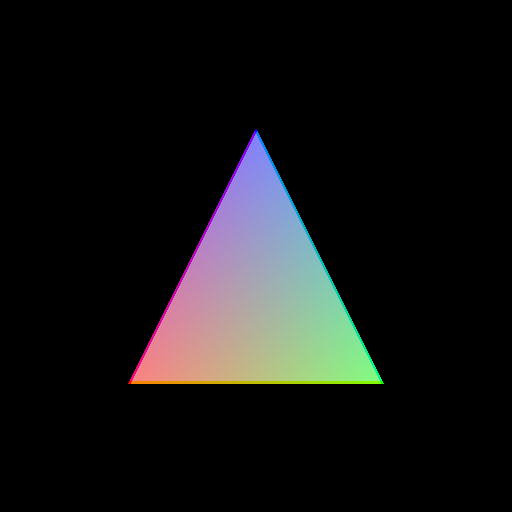
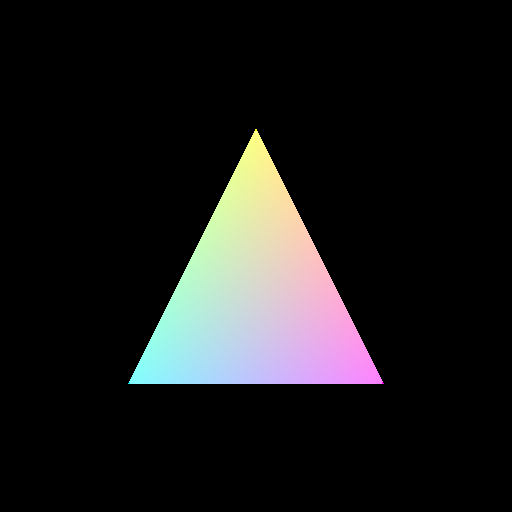
shaders modifications

Changed region(s): [[0.25, 0.25, 0.75, 0.75]]

diff --git a/source/common/shader/shader.hpp b/source/common/shader/shader.hpp
@@ -74,13 +74,13 @@ namespace our {
         void set(const std::string &uniform, glm::vec4 value) {
             //TODO: (Req 1) Send the given 4D vector value to the given uniform
            GLuint u=getUniformLocation(uniform);
-            glUniform4f(u,value.x,value.y,value.z,1.0);   
+            glUniform4f(u,value.x,value.y,value.z,value.w);   
         }
 
         void set(const std::string &uniform, glm::mat4 matrix) {
             //TODO: (Req 1) Send the given matrix 4x4 value to the given uniform
             GLuint u=getUniformLocation(uniform);
-            glUniformMatrix4fv(u,1,GL_FALSE,&matrix[0][0]);
+            glUniformMatrix4fv(u,1,GL_FALSE,glm::value_ptr(matrix));
         }
 
         //TODO: (Req 1) Delete the copy constructor and assignment operator.
